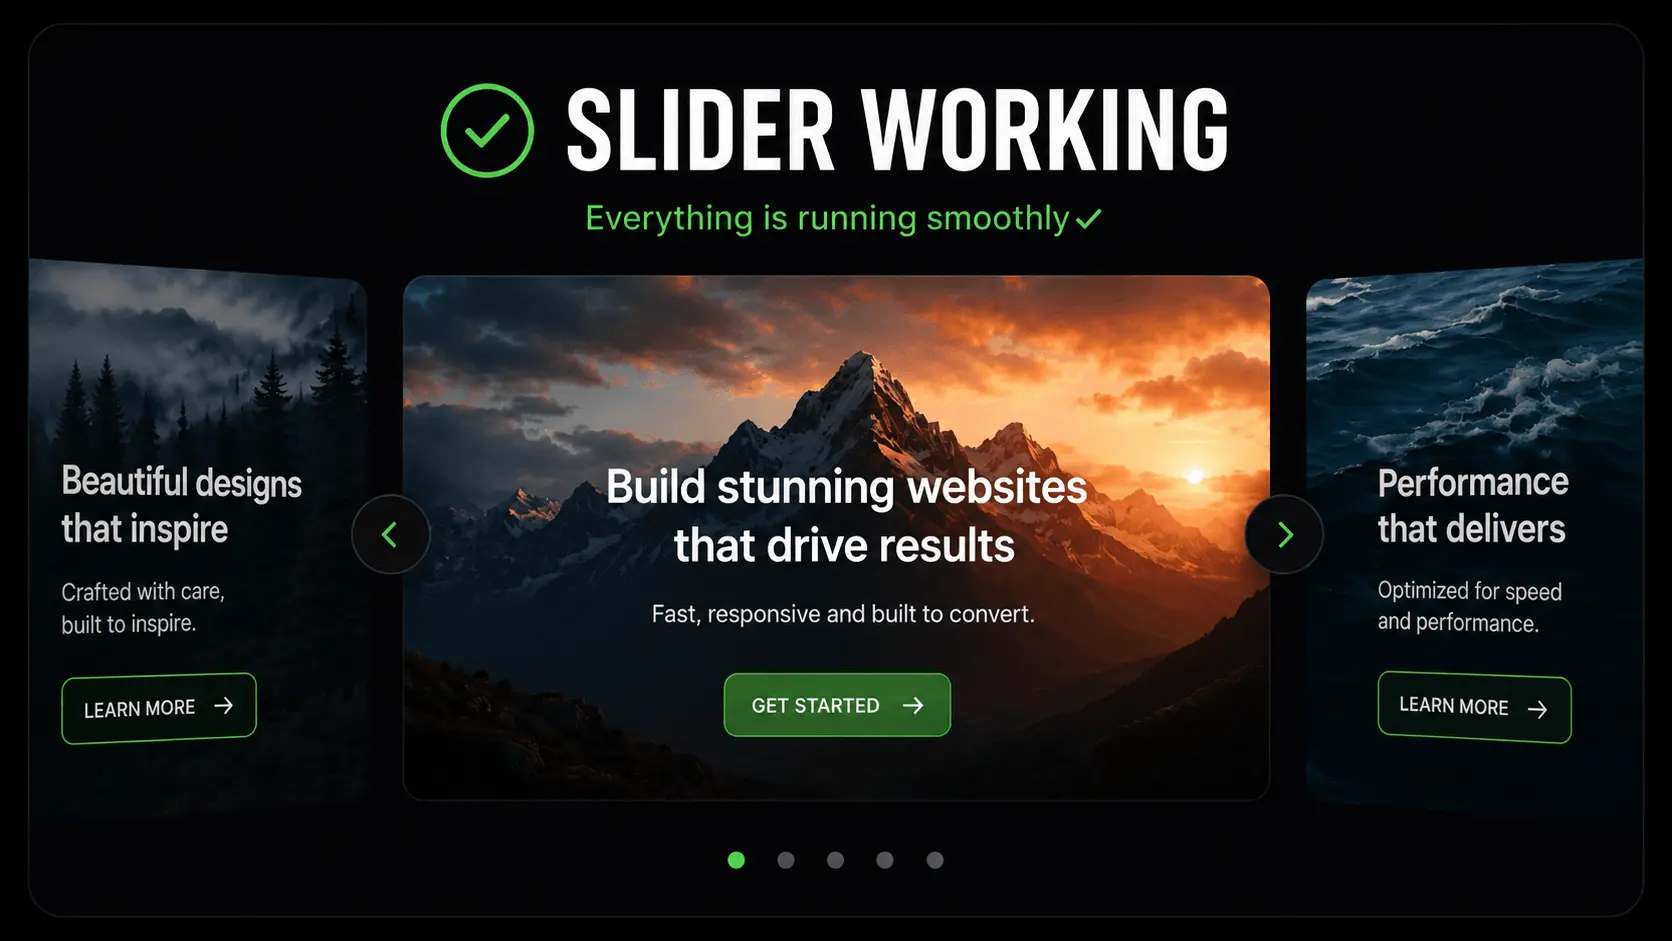
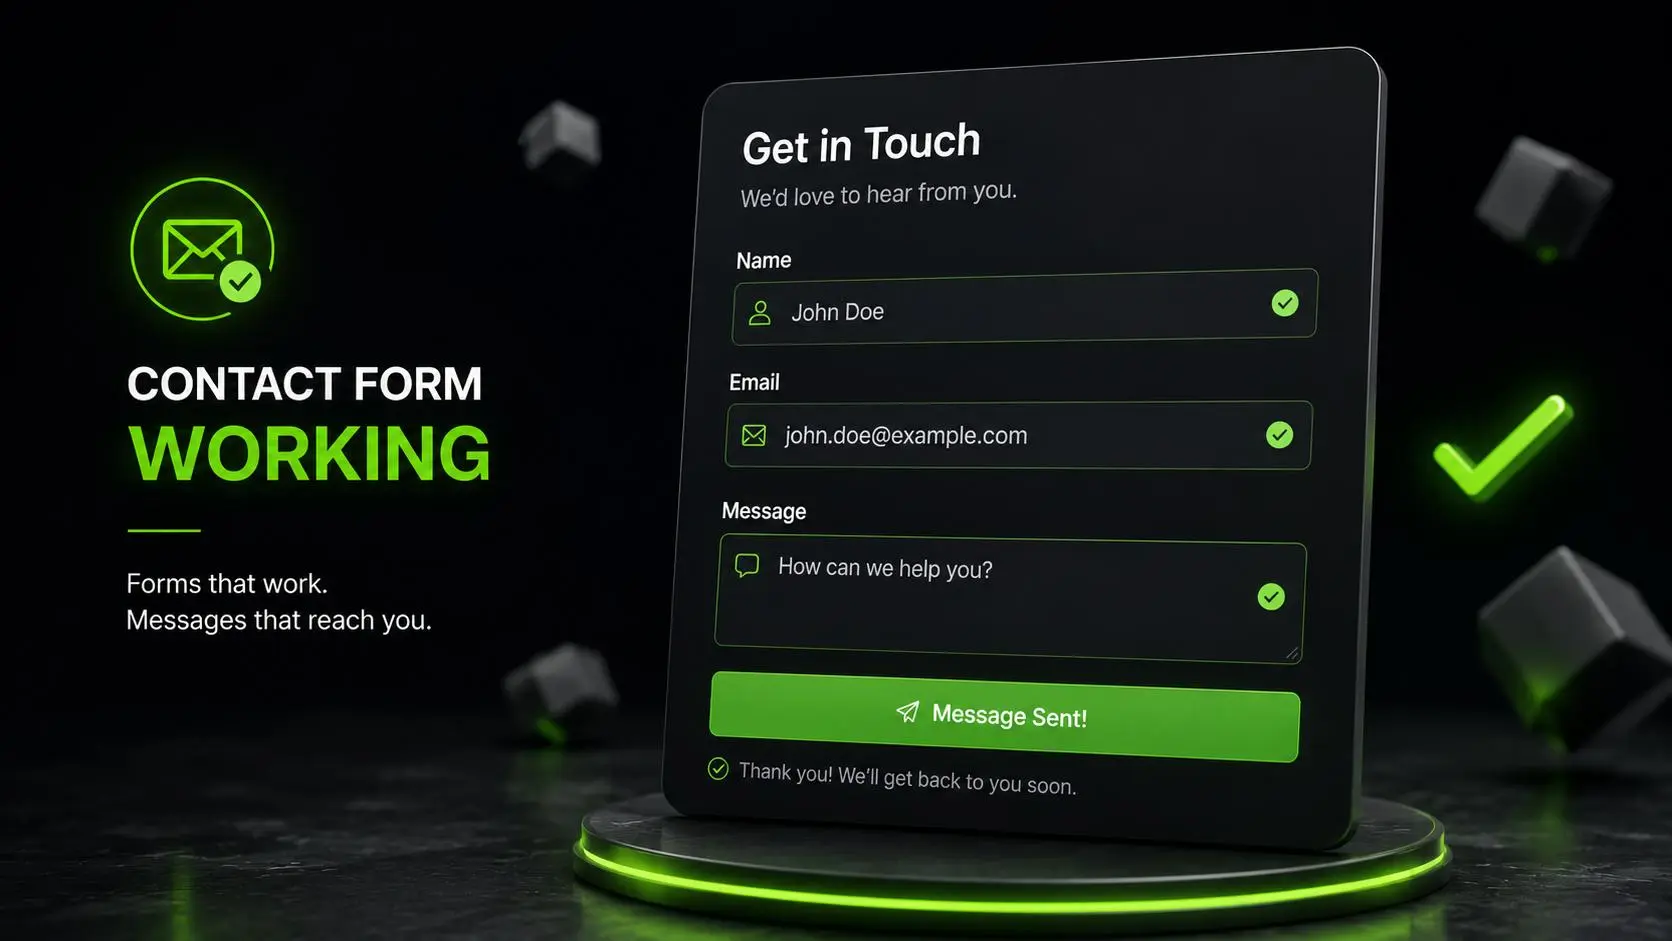
site-improvement

diff --git a/src/ui/BillboardLabel.tsx b/src/ui/BillboardLabel.tsx
@@ -10,6 +10,7 @@ const parentQuaternion = new Quaternion();
 const inverseParentQuaternion = new Quaternion();
 const targetQuaternion = new Quaternion();
 const yawEuler = new Euler(0, 0, 0, "YXZ");
+const labelVisibilityBuffer = 2.5;
 
 type BillboardLabelProps = {
   children: ReactNode;
@@ -31,28 +32,31 @@ export function BillboardLabel({
   position = [0, 1.05, 0],
 }: BillboardLabelProps) {
   const groupRef = useRef<Group>(null);
-  const lastUpdateRef = useRef(0);
+  const lastDistanceCheckRef = useRef(-Infinity);
   const visibleRef = useRef(maxVisibleDistance === undefined);
 
   useFrame(({ camera, clock }) => {
-    const updateInterval = visibleRef.current ? 0.1 : 0.35;
-    if (clock.elapsedTime - lastUpdateRef.current < updateInterval) return;
-    lastUpdateRef.current = clock.elapsedTime;
-
     const group = groupRef.current;
     if (!group) return;
 
-    group.getWorldPosition(worldPosition);
     if (maxVisibleDistance !== undefined) {
-      const deltaX = playerWorldState.position.x - worldPosition.x;
-      const deltaY = playerWorldState.position.y - worldPosition.y;
-      const deltaZ = playerWorldState.position.z - worldPosition.z;
-      const visible = deltaX * deltaX + deltaY * deltaY + deltaZ * deltaZ <= maxVisibleDistance * maxVisibleDistance;
-      visibleRef.current = visible;
-      group.visible = visible;
-      if (!visible) return;
+      const checkInterval = visibleRef.current ? 0.2 : 0.35;
+      if (clock.elapsedTime - lastDistanceCheckRef.current >= checkInterval) {
+        lastDistanceCheckRef.current = clock.elapsedTime;
+        group.getWorldPosition(worldPosition);
+        const deltaX = playerWorldState.position.x - worldPosition.x;
+        const deltaY = playerWorldState.position.y - worldPosition.y;
+        const deltaZ = playerWorldState.position.z - worldPosition.z;
+        const threshold = visibleRef.current ? maxVisibleDistance + labelVisibilityBuffer : maxVisibleDistance;
+        const visible = deltaX * deltaX + deltaY * deltaY + deltaZ * deltaZ <= threshold * threshold;
+        visibleRef.current = visible;
+        group.visible = visible;
+      }
+
+      if (!visibleRef.current) return;
     }
 
+    group.getWorldPosition(worldPosition);
     const yaw = Math.atan2(camera.position.x - worldPosition.x, camera.position.z - worldPosition.z);
     yawEuler.set(0, yaw, 0);
     targetQuaternion.setFromEuler(yawEuler);

diff --git a/src/world/systems/CombatPrototype.tsx b/src/world/systems/CombatPrototype.tsx
@@ -35,15 +35,14 @@ const serviceInfoText: Record<string, string> = {
     "Broken images can make your website look untrustworthy fast.\n\nWhen key visuals do not load, visitors may leave before they understand your business.\n\nI help fix urgent website issues quickly so your site looks reliable again.",
   performance:
     "A slow website can cost you visitors before they even contact you.\n\nImproving performance helps pages load faster, feel smoother, and support better SEO.\n\nI help optimize websites so users get a faster, cleaner experience.",
-  "site-improvement":
-    "A broken slider can make your website feel unfinished.\n\nVisitors should be able to browse your content without glitches or frustration.\n\nI help improve website layouts, interactions, and user experience so your site feels polished and professional.",
+  "site-improvement": "Contact forms should just work.\n\nFailed submissions and missing emails can cost you customers.\n\nI fix forms so every message gets delivered.",
 };
 
 const villainDialogueText: Record<string, string> = {
   "quick-fix": "😈 Broken Button!",
   "urgent-fix": "😈 Broken Images!",
   performance: "😈 Poor PageSpeed",
-  "site-improvement": "😈 Broken Slider",
+  "site-improvement": "😈 Contact Form Broken",
 };
 
 type SectionEncounterConfig = {

diff --git a/src/world/systems/HubSections.tsx b/src/world/systems/HubSections.tsx
@@ -56,7 +56,7 @@ const serviceScreenImages: Record<string, { bad: string; good: string }> = {
     good: "/images/optimized/performance/performance-good.webp",
   },
   "site-improvement": {
-    bad: "/images/optimized/siteImprovement/site-improvement-bad.jpg",
+    bad: "/images/optimized/siteImprovement/site-improvement-bad.webp",
     good: "/images/optimized/siteImprovement/site-improvement-good.webp",
   },
 };
